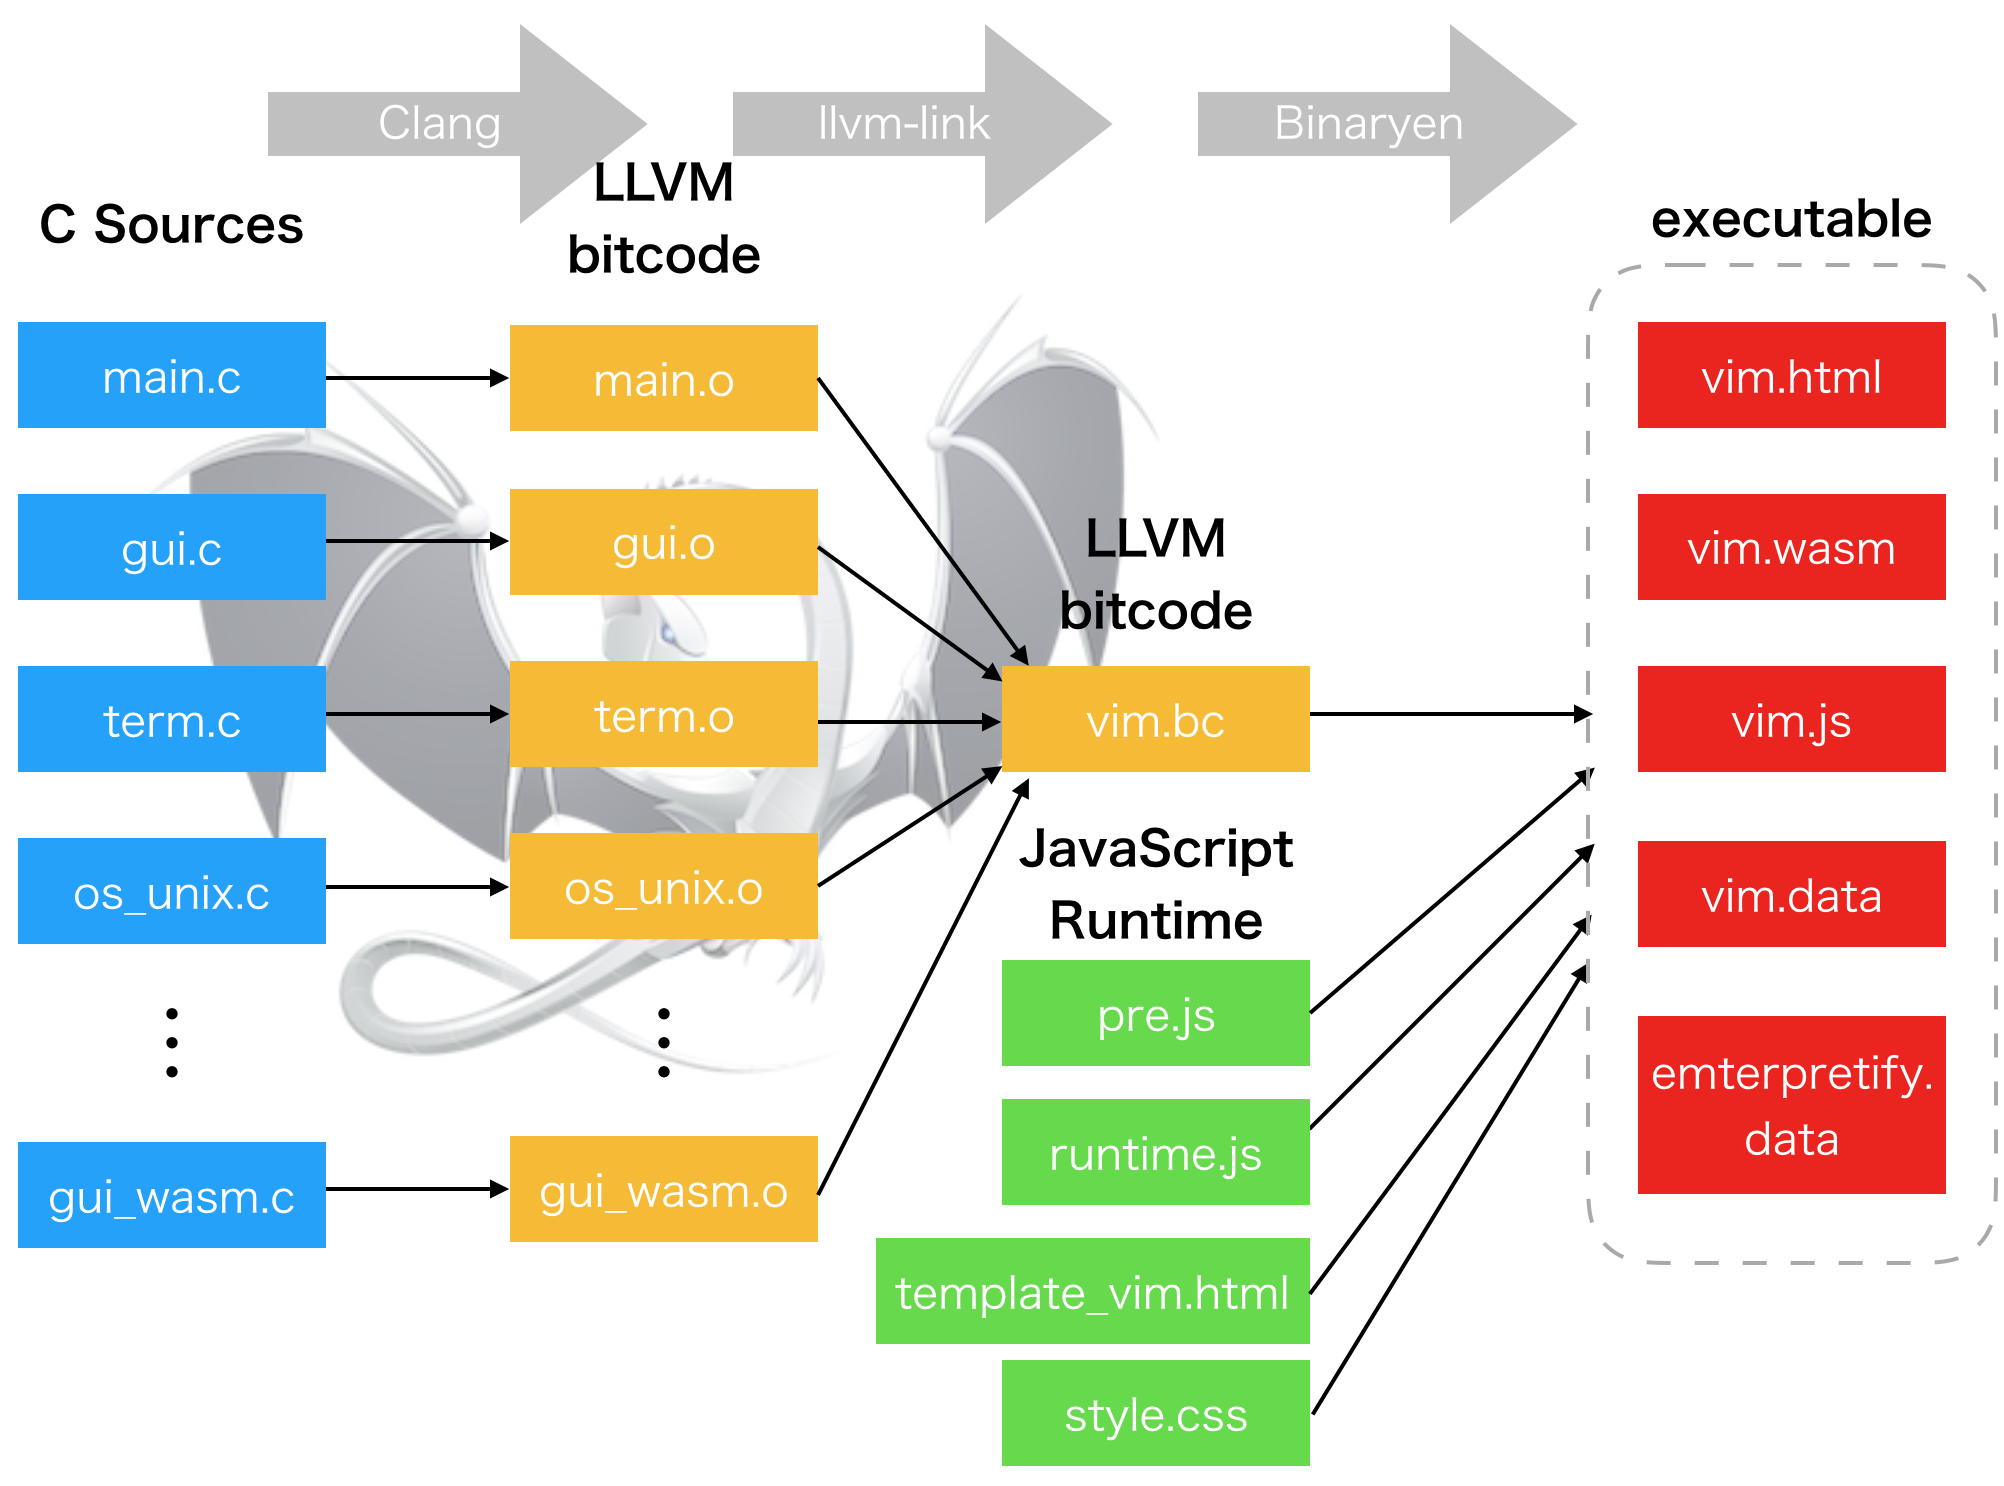
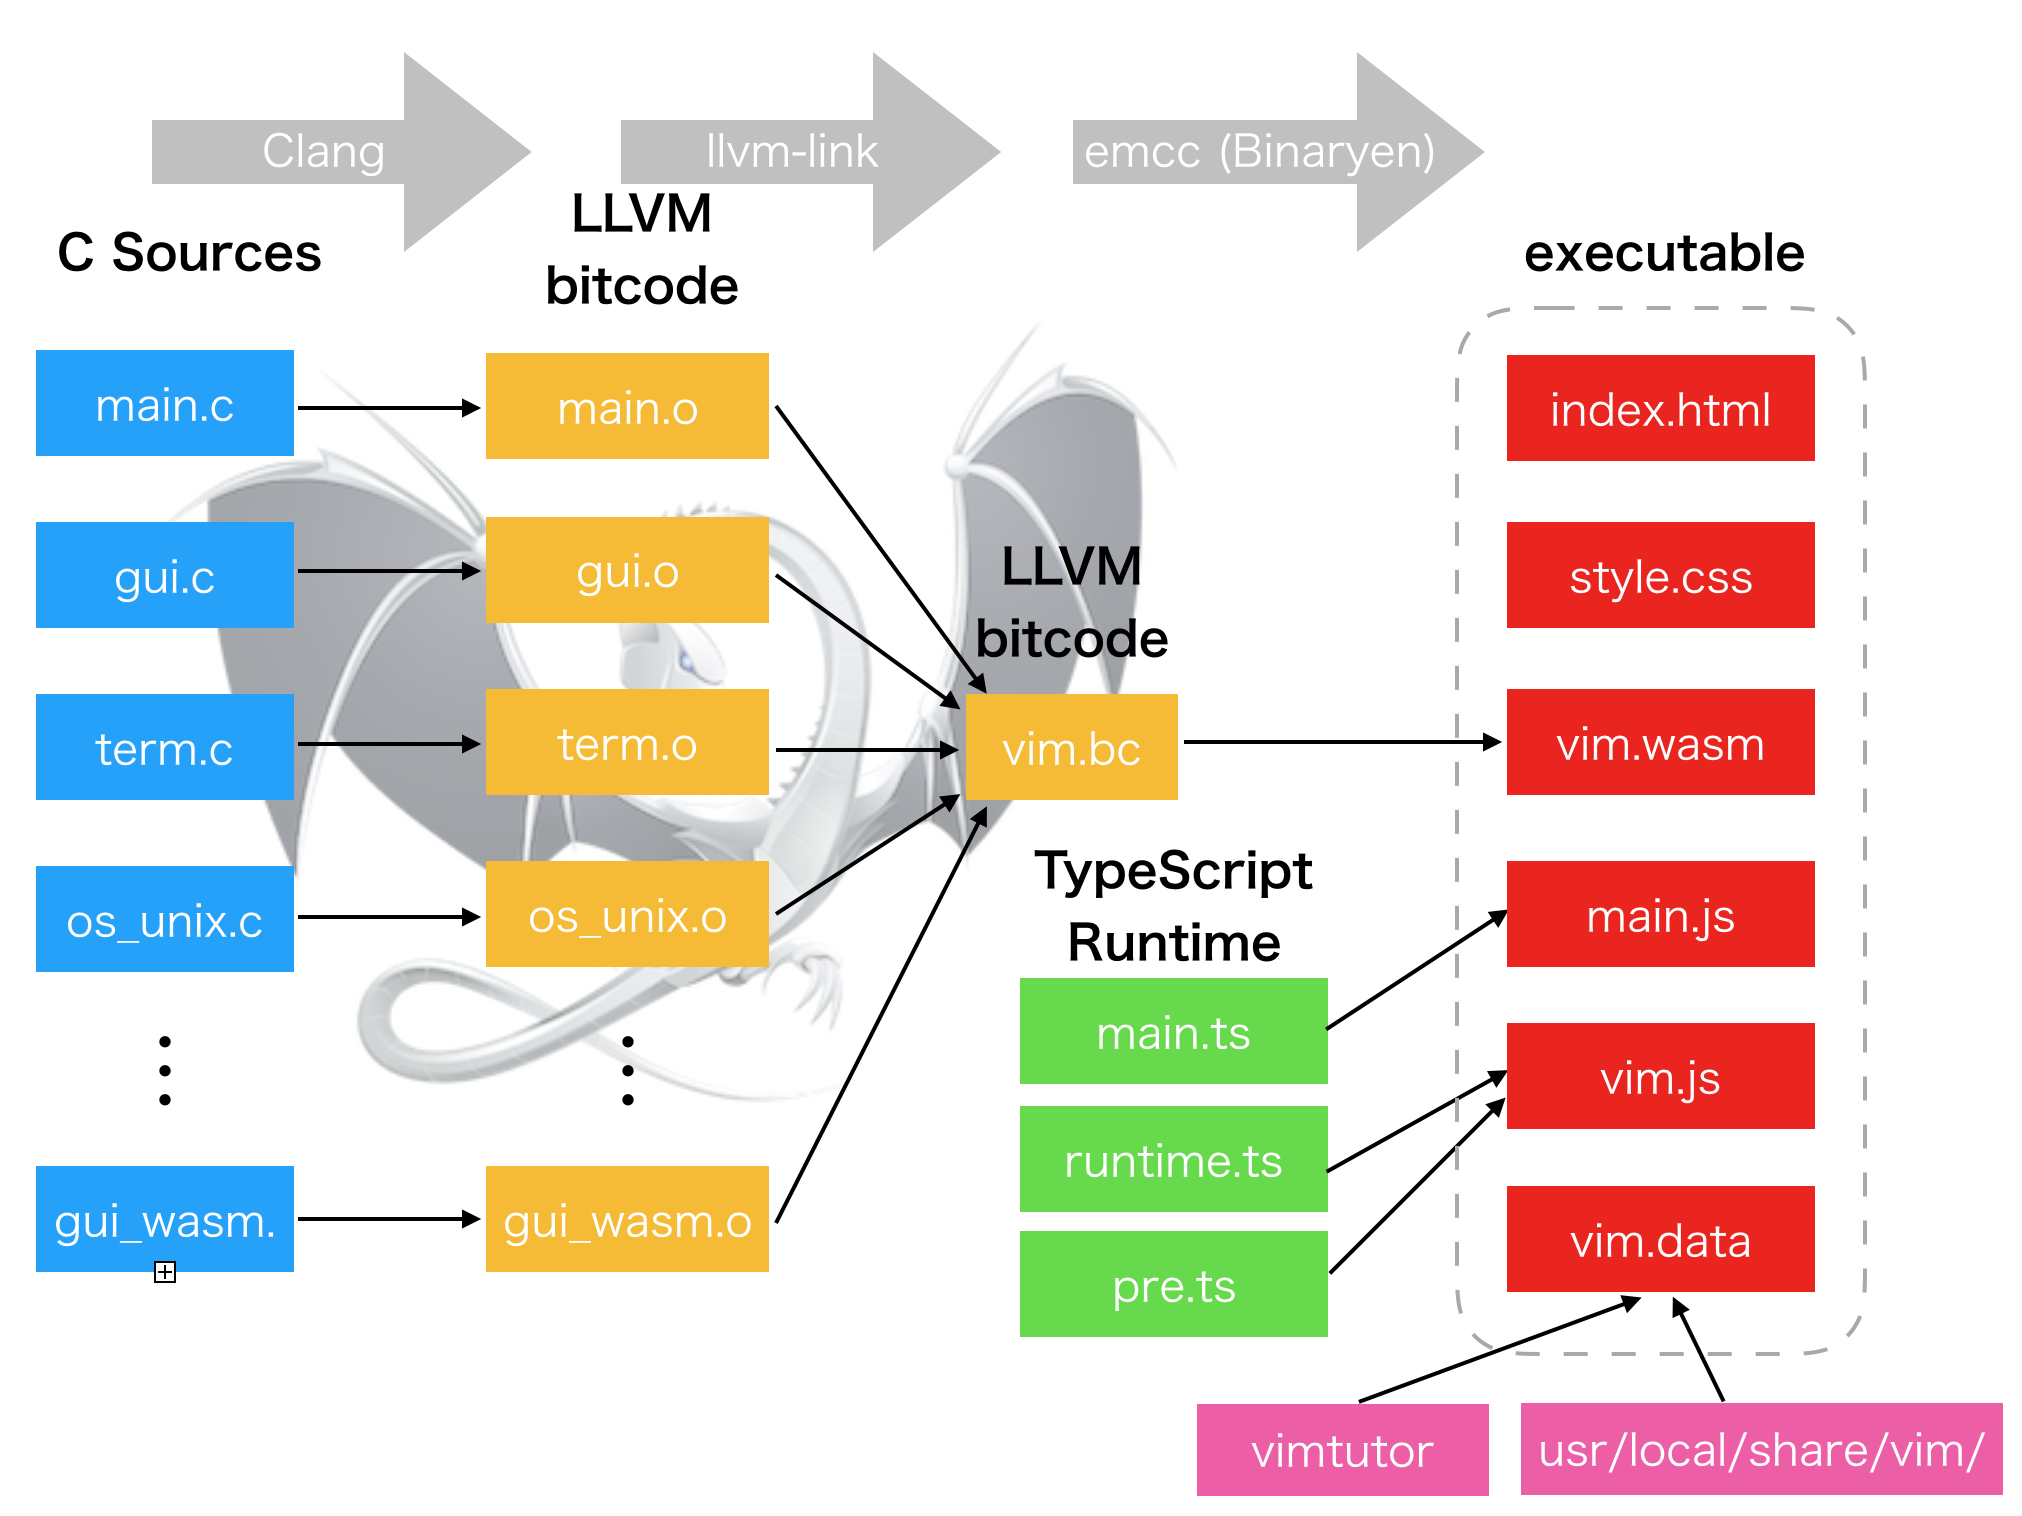
update README for Web Worker updates

diff --git a/README.md b/README.md
@@ -2,13 +2,17 @@ vim.wasm: Vim Ported to WebAssembly
 ===================================
 
 This project is an experimental fork of [Vim editor][] by [@rhysd][] to compile
-it into [WebAssembly][] using [emscripten][] and [binaryen][].
+it into [WebAssembly][] using [emscripten][] and [binaryen][]. Vim runs on a worker
+thread ([Web Worker][]) so it does not prevent user interaction.
 
 ### [Try it with your browser][try it]
+
 - **NOTICES**
-  - Please access from a desktop browser (Chrome/Firefox/Safari/Edge). Safari
-    seems the best on macOS.
-  - Please avoid slow networks. Your browser will fetch total of around 1MB files.
+  - Please access from desktop Chrome, Firefox, Safari or Chromium based browsers
+    since this project uses `SharedArrayBuffer` and `Atomcis`.  On Firefox or Safari,
+    feature flags (`javascript.options.shared_memory` for Firefox) must be enabled
+    for now.
+  - Please avoid slow networks. Your browser will fetch totally around 900KB files.
   - vim.wasm takes key inputs from DOM `keydown` event. Please disable your browser
     extensions which affect key inputs (incognito mode would be the best).
   - This project is very early phase of experiment.  Currently only tiny features
@@ -17,10 +21,11 @@ it into [WebAssembly][] using [emscripten][] and [binaryen][].
   - If inputting something does not change anything, please try to click somewhere
     in the page.  Vim may have lost the focus.
   - You can try vimtutor by `:e tutor`.
-  - Vim exits on `:quit`, but the command does not close a browser tab. Please close it manually :)
+  - Vim exits on `:quit`, but the command does not close a browser tab. Please close
+    it manually :)
 
-The goal of this project is running Vim editor on browser by compiling Vim C
-sources into WebAssembly.
+The goal of this project is running Vim editor on browser by compiling Vim C sources
+into WebAssembly.
 
 - [English Presentation Slide at VimConf 2018](https://speakerdeck.com/rhysd/vim-ported-to-webassembly-vimconf-2018)
 - [Japanese Blogpost](https://rhysd.hatenablog.com/entry/2018/07/09/090115)
@@ -29,13 +34,43 @@ sources into WebAssembly.
 
 ## How It Works
 
+### User Interaction
+
+![User Interaction](./wasm-readme-images/user-interaction.png)
+
+In worker thread, Vim is running by compiled into Wasm.  The worker thread is spawned
+as dedicated Web Worker from main thread when opening the page.
+
+Let's say you input something with keyboard. Browser takes it as `KeyboardEvent` on
+`keydown` event. JavaScript in main thread catches the event and store keydown
+information to a shared memory buffer.
+
+The shared memory buffer is shared with the worker thread.  Vim gets user input by
+polling the shared memory buffer via JavaScript's `Atomics` API.  When key information
+is found in the buffer, it loads the information and calculates key sequence. Via
+JS to Wasm API thanks to emscripten, the sequence is added to Vim's input buffer in Wasm.
+
+The sequence in input buffer is processed in core editer logic (update buffer,
+screen, ...).  Due to the updates, some draw events happen such as draw text, draw
+rects, scroll regions, ...
+
+These draw events are sent to JavaScript in worker thread from Wasm thanks to emscripten's
+JS to C API. Considering device pixel ratio and `<canvas/>` API, how to render the
+events is calculated and these calculated rendering events are passed from worker thread
+to main thread via message passing with `postMessage()`.
+
+Main thread JavaScript receives and enqueues these rendering events. On animation
+frame, it renders them to `<canvas/>`.
+
+Finally you can see the rendered screen in the page.
+
 ### Build Process
 
 ![Build Process](./wasm-readme-images/build-process.png)
 
-WebAssembly frontend for Vim is implemented as a new GUI frontend.  C sources are
+WebAssembly frontend for Vim is implemented as a new GUI frontend of Vim like other GUI such as GTK frontend.  C sources are
 compiled to each LLVM bitcode files and then they are linked to one bitcode file
-`vim.bc` by `emcc`.  `emcc` finally compiles the `vim.bc` into `vim.wasm` binary
+`vim.bc` by `emcc`.  `emcc` will finally compile the `vim.bc` into `vim.wasm` binary
 using binaryen and generates HTML/JavaScript runtime.
 
 The difference I faced at first was the lack of terminal library such as ncurses.
@@ -50,40 +85,81 @@ support, PTY support, signal handlers are stubbed, ...etc).
 
 I created `gui_wasm.c` heavily referencing `gui_mac.c` and `gui_w32.c`. Event loop
 (`gui_mch_update()` and `gui_mch_wait_for_chars()`) is simply implemented with
-`sleep()`. And almost all UI rendering events arer passed to JavaScript layer
+blocking wait. And almost all UI rendering events are passed to JavaScript layer
 by calling JavaScript functions from C thanks to emscripten.
 
 C sources are compiled (with many optimizations) into LLVM bitcode with [Clang][]
 which is integrated to emscripten. Then all bitcode files (`.o`) are linked to
 one bitcode file `vim.bc` with `llvm-link` linker (also integrated to emscripten).
 
-Finally I created JavaScript runtime to draw the rendering events sent from C.
-It is created as `wasm/runtime.ts` using [emscripten API][emscripten/interacting with codde].
-It draws Vim screen to `<canvas/>` element with rendering events such as
-'draw text', 'scroll screen', 'set foreground color', 'clear rect', ...etc.
+And I created JavaScript runtime in TypeScript to draw the rendering events sent
+from C.  JavaScript runtime is separated into two parts; main thread and worker
+thread.  `wasm/main.ts` is for main thread. It starts Vim in worker thread and
+draws Vim screen to `<canvas>` receiving draw events from Vim. `wasm/runtime.ts`
+and `wasm/pre.ts` are for worker thread. They are written using
+[emscripten API][emscripten/interacting with code].
 
-`emcc` (emscripten's C compiler) compiles the `vim.bc` into `vim.wasm`, `vim.js`
-and `vim.html` with preloaded Vim runtime files (i.e. colorscheme) using binaryen.
-Runtime files are put on a virtual file system provided by emscripten on a browser.
+`emcc` (emscripten's C compiler) compiles the `vim.bc` and `runtime.js` into `vim.wasm`,
+`vim.js` and `vim.data` with preloaded Vim runtime files (i.e. colorscheme) using
+binaryen.  Runtime files are loaded on a virtual file system provided on a browser
+by emscripten.  Here, these files are compiled for worker thread. `wasm/main.js`
+starts a dedicated Web Worker loading `vim.js`.
 
-Now hosting `vim.html` with a web server and accessing to it with browser opens
-Vim. It works.
+Finally, I created a small `wasm/index.html` which contains `<canvas/>` to render
+Vim screen and load `wasm/main.js`.
 
-### User Interaction
+Now hosting `wasm/index.html` with a web server and accessing to it with browser
+opens Vim.  It works.
 
-![User Interaction](./wasm-readme-images/user-interaction.png)
+### How to `sleep()` on JavaScript
 
-User interaction is very simple. You input something with keyboard. Browser takes
-it as `KeyboardEvent` on `keydown` event and JavaScript runtime sends the input
-to Wasm thanks to emscripten's JS to C API. Sent input is added to a buffer in C
-layer. It affects the editor's state.
+<!-- TODO?: Add sequence diagram of polling with Atomics.wait() -->
 
-An editor core implemented in C calculates rendering events and sends it to
-JavaScript layer thanks to emscripten's C to JS API. JavaScript runtime receives
-rendering events and stores them into a queue. On animation frames, it draws
-them to `<canvas/>` element in the web page.
+The hardest part for this porting was how to implement blocking wait (usually done
+with `sleep()`).
 
-Finally you can see the rendered results in the page.
+Since blocking main thread on web page means blocking user interaction, it is prohibited.
+Almost all operations taking time are implemented as asynchronous API in JavaScript.
+Wasm run in main thread cannot block main thread except for busy loop.
+
+But C programs casually use `sleep()` function so it is a problem when porting the programs.
+Vim's GUI frontend is also expected to wait user input with blocking wait.
+
+emsscripten provides workaround for this problem, [Emterpreter][]. With Emterpreter,
+emscripten provides (pseudo) blocking wait functions such as `emscripten_sleep()`.
+When they are used in C function, `emcc` compiles the function into Emterpreter byte
+code instead of Wasm. And at runtime, the byte code is run on an interpreter (on Wasm).
+When the interpreter reaches at the point calling `emscripten_sleep()`, it suspends
+byte code execution and sets timer (with `setTimeout` JS function). After time
+expires, the interpreter resumes state and continues execution.
+
+By this mechanism, JavaScript's asynchronous wait looks as if synchronous wait from C
+world.  At first I used Emterpreter and it works. However, there are several issues.
+
+- It splits Vim code into two parts; pure Wasm code directly run and Emterpreter byte
+  code run on an interpreter.  I needed to maintain large functions list which should
+  be compiled into Emterpreter byte code. When the list is wrong, Vim crashes
+- Emterpreter is not so fast so it slows entire application
+- Emterpreter makes program unstable. For example JS and C interactions don't work
+  in some situations
+- Emterpreter makes built binary bigger and compilation longer.  Compiling C code
+  into Emterpreter byte code is very slow since it requires massive code transformations.
+  Emterpreter byte code is very simple so its binary size is bigger
+
+I looked for an alternative and found [`Atomics.wait()`][js-atomics-wait]. `Atomics.wait()`
+is a low-level synchronous primitive function. It waits until a specific byte shared
+memory buffer is updated. It's **blocking wait**. Of course it is not available on
+main thread. It must be used on a worker thread.
+
+I moved Wasm code to Web Worker run in worker thread, though rendering `<canvas/>`
+is still done in main thread. Vim uses `Atomics.wait()` for waiting use input by
+watching a shared memory buffer. In main thread, when a key event happens, it is
+written into the shared memory buffer. In worker thread, the `Atomics.wait()` detects
+the buffer was updated and loads key event from it. Vim handles the event and sends
+draw events to main thread via JavaScript.
+
+As a bonus, user interaction is no longer prevented since almost all logic including
+entire Vim are run in worker thread.
 
 ## Development
 
@@ -105,22 +181,28 @@ to create your own branch and merge `wasm` branch into your branch by `git merge
 
 ### Known Issues
 
-- WebAssembly nor JavaScript does not provide `sleep()`. By default, emscripten
+- ~~WebAssembly nor JavaScript does not provide `sleep()`. By default, emscripten
   compiles `sleep()` into a busy loop.  So vim.wasm is using [Emterpreter][]
   which provides `emscripten_sleep()`. Some whitelisted functions are run with
   Emterpreter. But this feature is not so stable. It makes built binaries larger
-  and compilation longer.
-- JavaScript to C does not fully work with Emterpreter. For example, calling
+  and compilation longer.~~ This was fixed by using `Atomics.wait()`
+- ~~JavaScript to C does not fully work with Emterpreter. For example, calling
   some C APIs breaks Emterpreter stack. This also means that calling C functions
-  from JavaScript passing a `string` parameter does not work.
+  from JavaScript passing a `string` parameter does not work.~~ This was fixed by
+  using `Atomics.wait()`
+- Only Chrome and Chromium based browsers are supported by default. Firefox and Safari
+  require enabling feature flags. This is because `SharedArrayBuffer` is disabled
+  due to Spectre security vulnerability.
 
 ## TODO
 
 Development is managed in [GitHub Projects][].
 
 - 'small' (or larger) features support (currently only 'tiny' features are supported)
-- Async event loop (to disable Emterpreter)
-- Mouse support
+- Use multi-threads on Wasm and use [Atomic instructions][wasm-atomic-insn] instead
+  of using [JavaScript Atomics API][js-atomics-api]
+- Render `<canvas/>` in worker thread using [Offscreen Canvas][]
+- Mouse and clipboard support
 - Persistent `.vimrc`
 - Packaging vim.wasm as npm package or ES Modules as Web Component
 - Save files to local on `:write`
@@ -140,14 +222,19 @@ Vim (VIM LICENSE).  Please see `:help license` for more detail.
 [WebAssembly]: https://webassembly.org/
 [emscripten]: http://kripken.github.io/emscripten-site/
 [binaryen]: https://github.com/WebAssembly/binaryen
+[Web Worker]: https://developer.mozilla.org/en-US/docs/Web/API/Web_Workers_API
 [try it]: http://rhysd.github.io/vim.wasm
 [Clang]: https://clang.llvm.org/
-[emscripten/interacting with codde]: https://kripken.github.io/emscripten-site/docs/porting/connecting_cpp_and_javascript/Interacting-with-code.html
+[emscripten/interacting with code]: https://kripken.github.io/emscripten-site/docs/porting/connecting_cpp_and_javascript/Interacting-with-code.html
 [Emterpreter]: https://github.com/kripken/emscripten/wiki/Emterpreter
 [GitHub Projects]: https://github.com/rhysd/vim.wasm/projects/2
 [vim/vim]: https://github.com/vim/vim
 [vim.js]: https://github.com/coolwanglu/vim.js/
 [Lu Wang]: https://github.com/coolwanglu
+[wasm-atomic-insn]: https://webassembly.github.io/threads/valid/instructions.html#atomic-memory-instructions
+[js-atomics-api]: https://developer.mozilla.org/en-US/docs/Web/JavaScript/Reference/Global_Objects/Atomics
+[Offscreen Canvas]: https://developer.mozilla.org/en-US/docs/Web/API/OffscreenCanvas
+[js-atomics-wait]: https://developer.mozilla.org/en-US/docs/Web/JavaScript/Reference/Global_Objects/Atomics/wait
 
 Original README is following.
 
